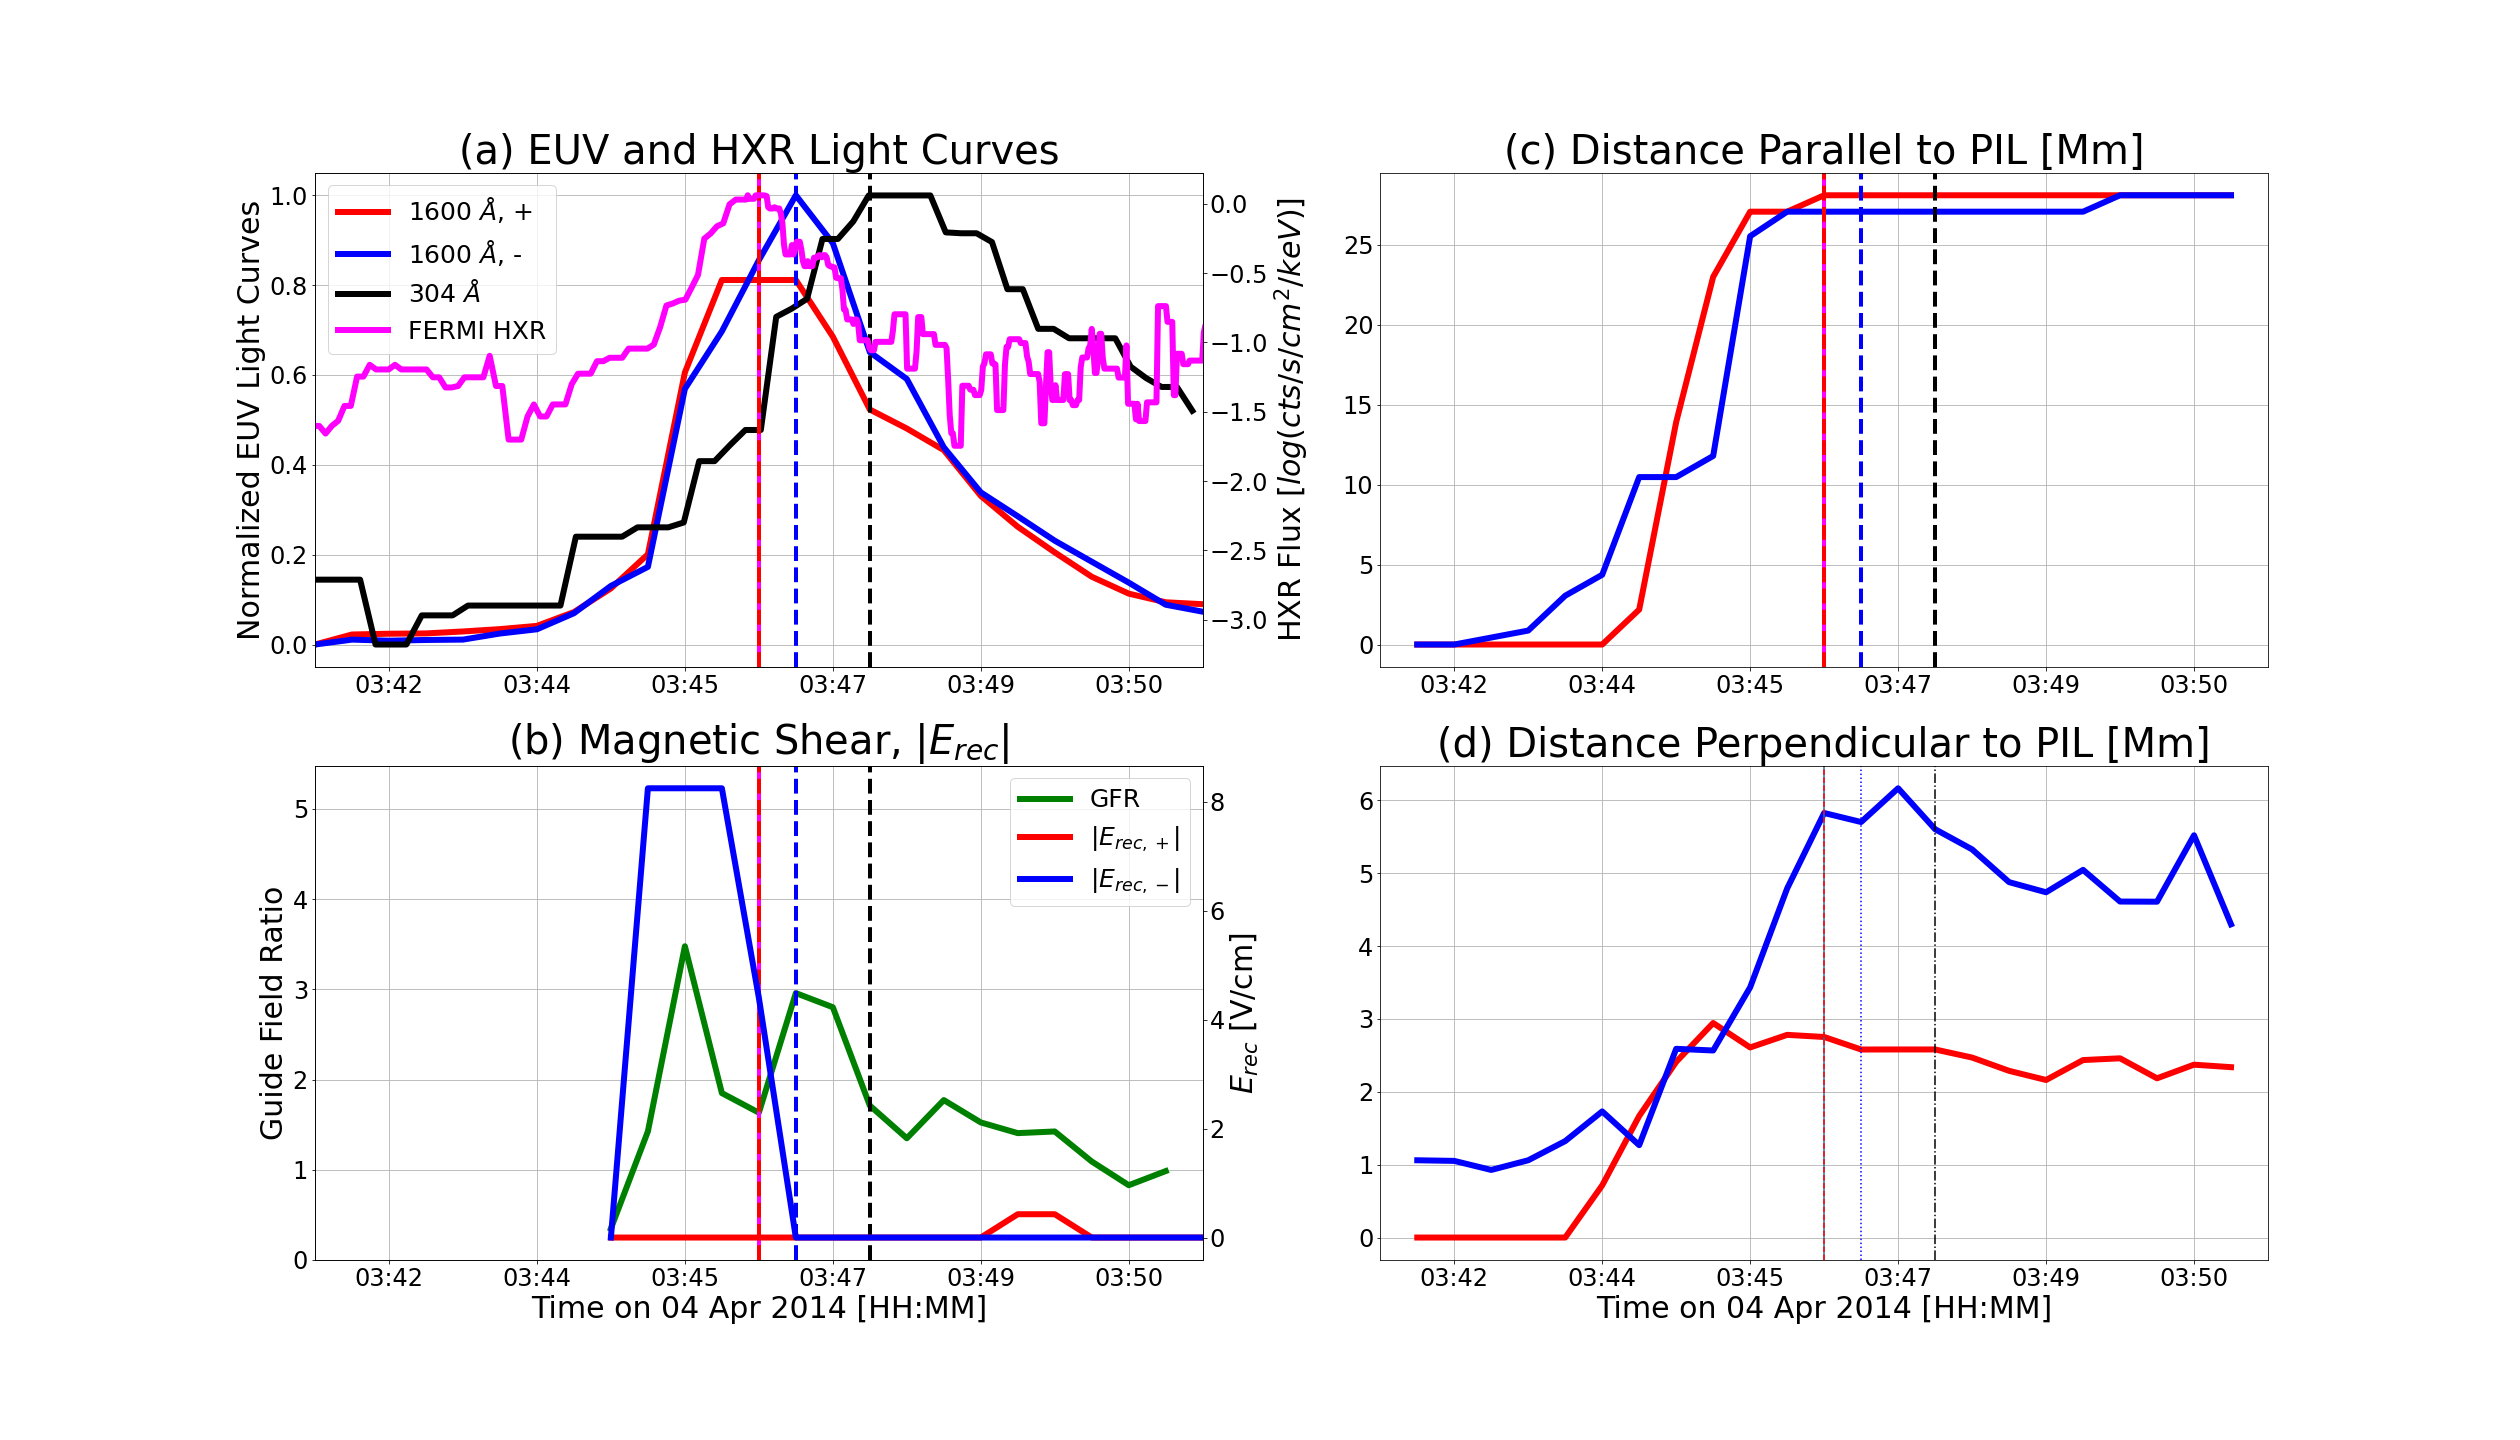
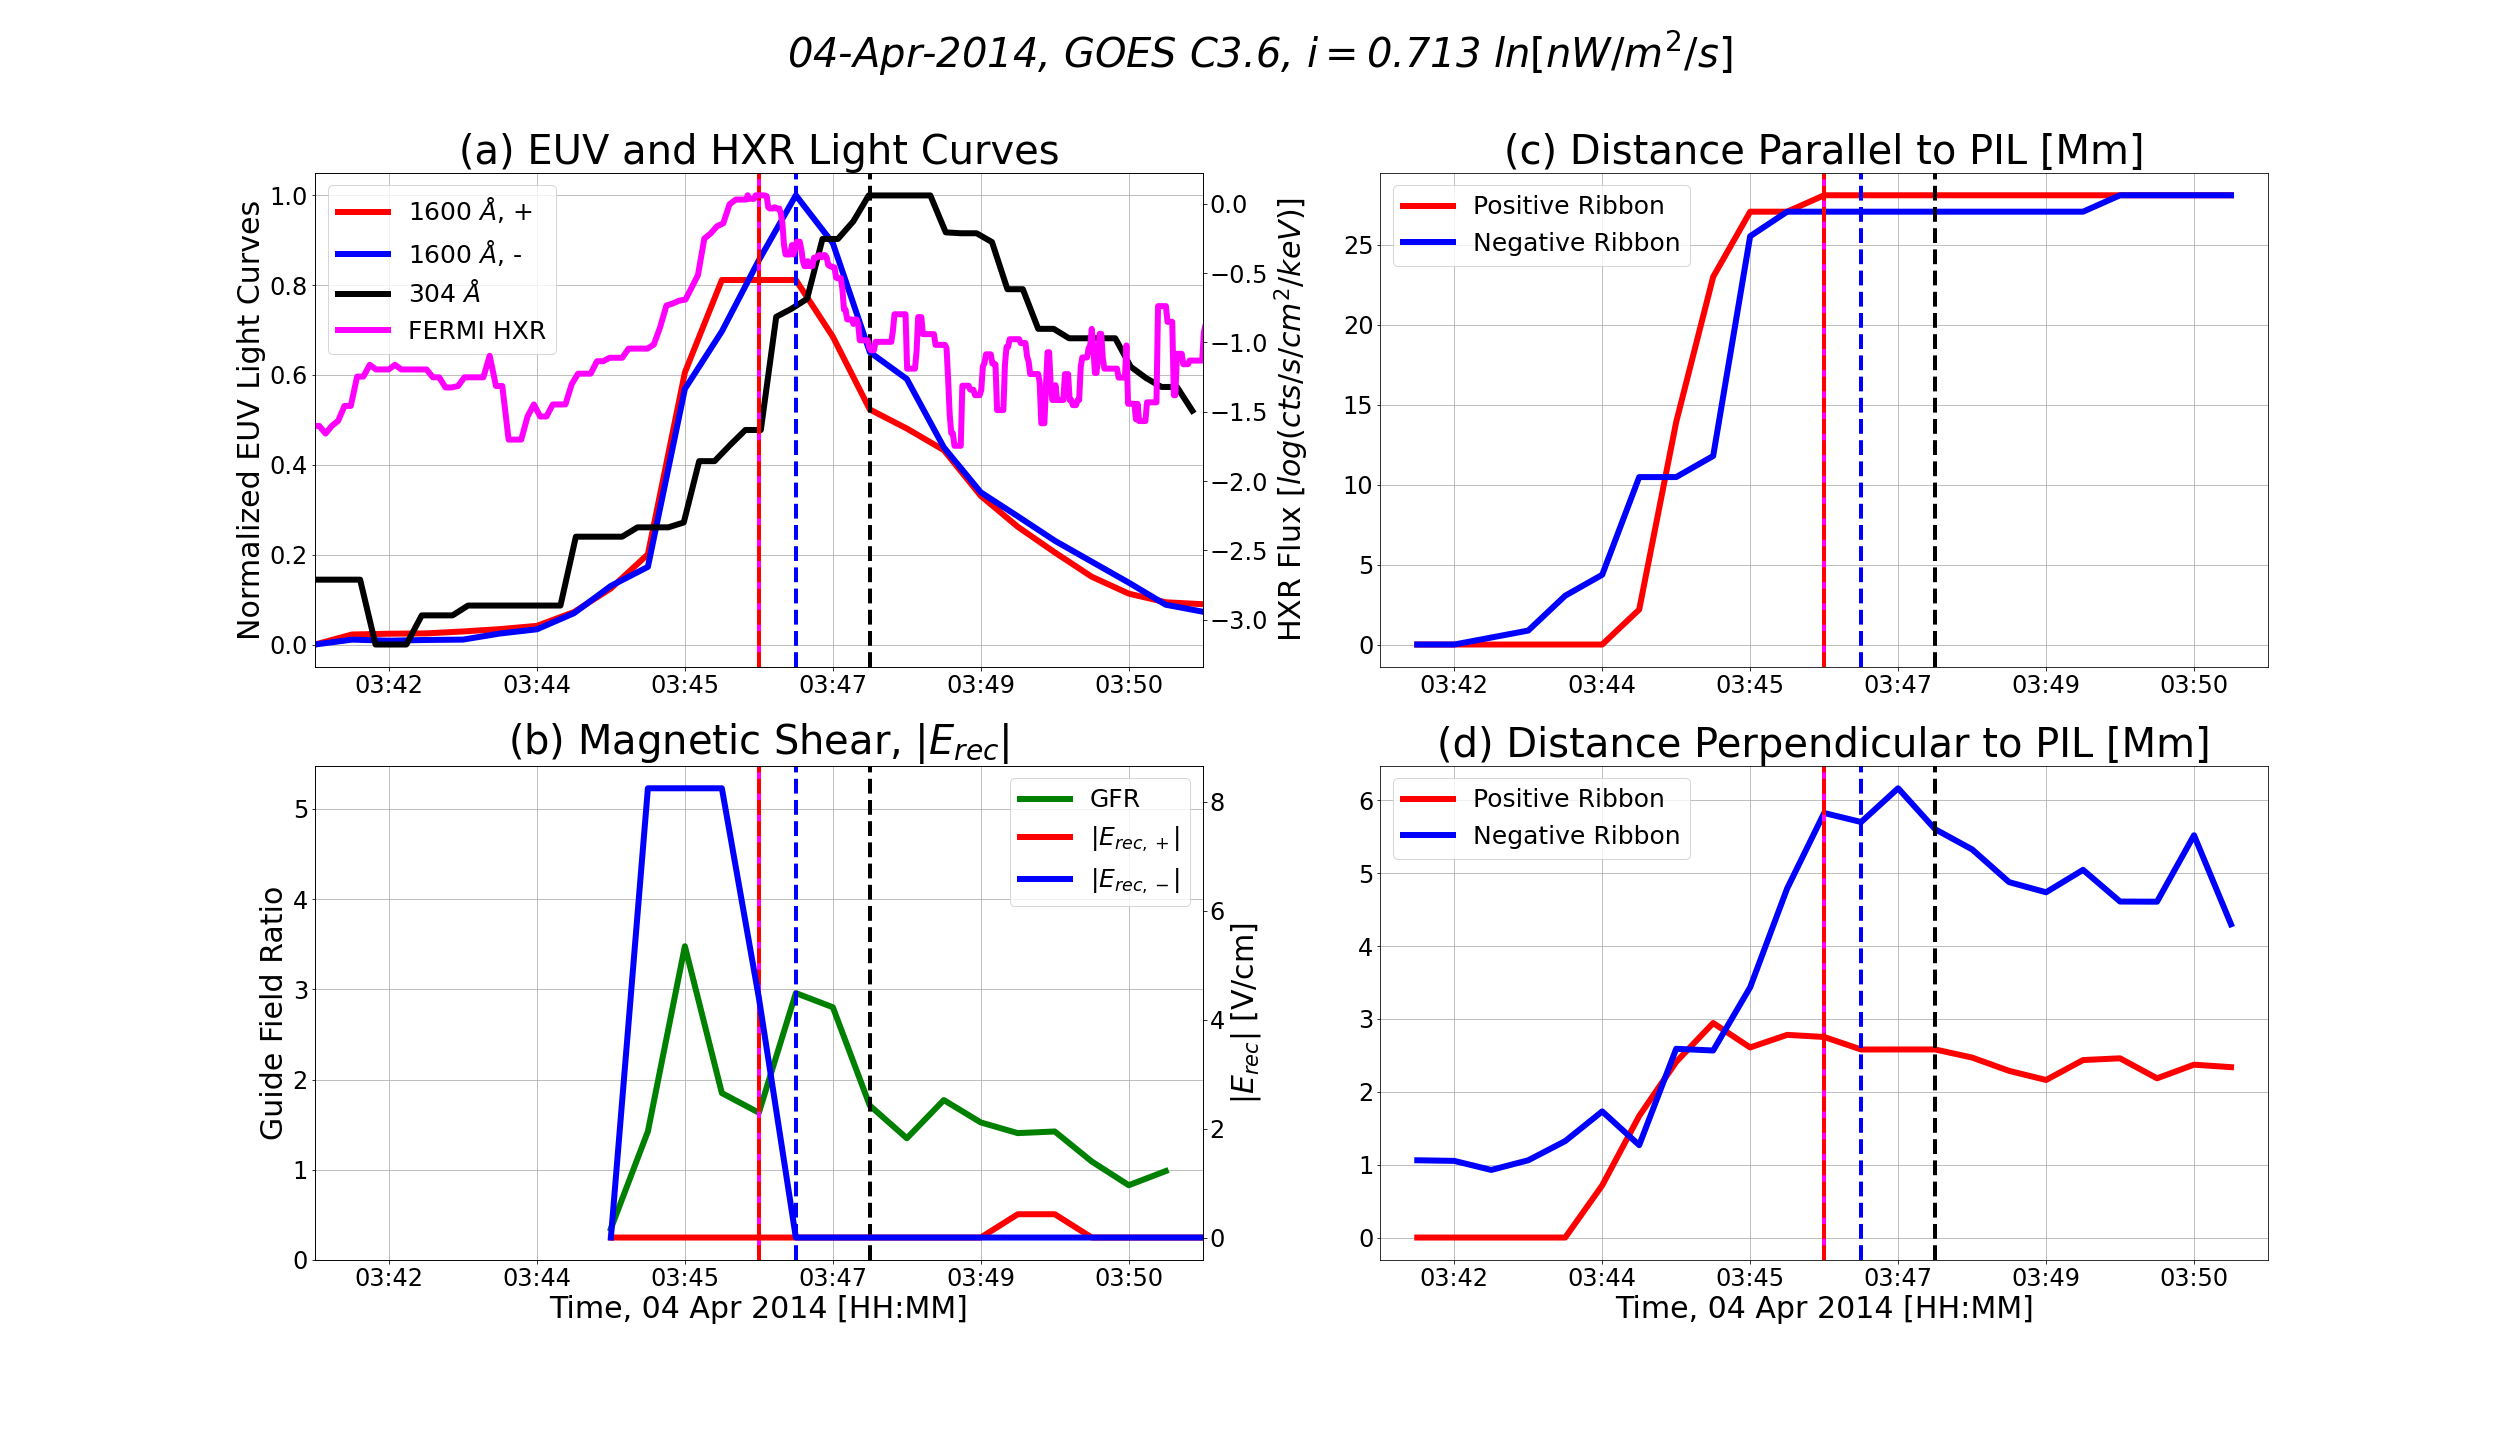
18 oct 2022 test fourpanel edit form

diff --git a/fl_funcs.py b/fl_funcs.py
@@ -4158,8 +4158,9 @@ def plt_fourpanel(times, right_gfr, left_gfr, flnum, dt1600, time304,
                   sepperiod_start_neg, sepperiod_end_neg, exp_ind,
                   s304, e304, pos1600, neg1600, dn1600, indstrt_elon,
                   indstrt_sep, fermitimes, raw_hxr_sum, cspec_hxr_sum,
-                  gfr_trans, E_pos, E_neg, time_E, day, mo, year,low_hxr=0,
-                  high_hxr=800, period_flag=0, flag=0, tick_space=0):
+                  gfr_trans, E_pos, E_neg, time_E, day, mo, year, xcl, xclnum,
+                  imp, low_hxr=0, high_hxr=800, period_flag=0, flag=0,
+                  tick_space=0):
     """
     Four-panel plot to compare HXR/1600 Angstrom/304 Angstrom (panel 1),
     ribbon separation (panel 2), ribbon elongation (panel 3), guide field ratio
@@ -4371,7 +4372,7 @@ def plt_fourpanel(times, right_gfr, left_gfr, flnum, dt1600, time304,
 
     ax2_0.set_xlim([dt1600[0], dt1600[-1]])
 
-    ax2_0.set_ylabel(r'$E_{rec}$ [V/cm]',
+    ax2_0.set_ylabel(r'$|E_{rec}|$ [V/cm]',
                      fontsize=30)
 
     font = font_manager.FontProperties(style='normal', size=20)
@@ -4393,11 +4394,11 @@ def plt_fourpanel(times, right_gfr, left_gfr, flnum, dt1600, time304,
             ax2.axvline(dt1600[l], c='red')
             ax2.axvspan(dt1600[k], dt1600[l], alpha=0.5, color='cyan')
 
-    ax3.plot(dt1600[indstrt_elon:-1], lens_pos_Mm[indstrt_elon:-1],
-             c='red', linewidth=6)
+    lns1 = ax3.plot(dt1600[indstrt_elon:-1], lens_pos_Mm[indstrt_elon:-1],
+             c='red', linewidth=6, label = 'Positive Ribbon')
 
-    ax3.plot(dt1600[indstrt_elon:-1], lens_neg_Mm[indstrt_elon:-1],
-             c='blue',linewidth=6)
+    lns2 = ax3.plot(dt1600[indstrt_elon:-1], lens_neg_Mm[indstrt_elon:-1],
+             c='blue',linewidth=6, label = 'Negative Ribbon')
 
     ax3.grid()
     #ax3.set_ylabel(
@@ -4412,12 +4413,16 @@ def plt_fourpanel(times, right_gfr, left_gfr, flnum, dt1600, time304,
     ax3.axvline(dt1600[max304], color='black',linestyle='dashed',linewidth=4)
     ax3.axvline(dt1600[max1600pos], color='red',linestyle='dashed',linewidth=4)
     ax3.axvline(dt1600[max1600neg], color='blue', linestyle='dashed',linewidth=4)
+    lns = lns1+lns2
+    labs = [k.get_label() for k in lns]
+    font = font_manager.FontProperties(style='normal', size=25)
+    ax3.legend(lns, labs, prop=font, fontsize=25)
     ax3.axes.xaxis.set_ticklabels([])
-    ax4.plot(dt1600[indstrt_sep:-1], distpos_Mm[indstrt_sep:-1], c='red',
-             markersize=6, linewidth=6)
+    lns1 = ax4.plot(dt1600[indstrt_sep:-1], distpos_Mm[indstrt_sep:-1], c='red',
+             markersize=6, linewidth=6, label = 'Positive Ribbon')
 
-    ax4.plot(dt1600[indstrt_sep:-1], distneg_Mm[indstrt_sep:-1],
-             c='blue', linewidth=6)
+    lns2 = ax4.plot(dt1600[indstrt_sep:-1], distneg_Mm[indstrt_sep:-1],
+             c='blue', linewidth=6, label = 'Negative Ribbon')
 
     #ax4.set_ylabel(
     #    'Distance Perpendicular to PIL [Mm]', fontsize=30)
@@ -4426,18 +4431,18 @@ def plt_fourpanel(times, right_gfr, left_gfr, flnum, dt1600, time304,
 
     ax4.set_xlim([dt1600[0], dt1600[-1]])
 
-    ax4.axvline(dt1600[hxrmax], label='Max. HXR')
-    ax4.axvline(dt1600[max304], color='black',
-                label=r'Max. 304 $\AA$', linestyle='dashdot')
-    ax4.axvline(dt1600[max1600pos], color='red',
-                label=r'Max. pos. 1600 $\AA$', linestyle='dashed')
-    ax4.axvline(dt1600[max1600neg], color='blue',
-                label=r'Max. neg. 1600 $\AA$', linestyle='dotted')
+    ax4.axvline(dt1600[hxrmax],color='magenta',linewidth=4)
+    ax4.axvline(dt1600[max304], color='black',linestyle='dashed',linewidth=4)
+    ax4.axvline(dt1600[max1600pos], color='red',linestyle='dashed',linewidth=4)
+    ax4.axvline(dt1600[max1600neg], color='blue', linestyle='dashed',linewidth=4)
     ax4.grid()
-    ax4.set_xlabel('Time on '+day+' '+mo+' '+year+' [HH:MM]',
+    ax4.set_xlabel('Time, '+day+' '+mo+' '+year+' [HH:MM]',
                    fontsize=30)
-    
-    ax2.set_xlabel('Time on '+day+' '+mo+' '+year+' [HH:MM]',
+    lns = lns1+lns2
+    labs = [k.get_label() for k in lns]
+    font = font_manager.FontProperties(style='normal', size=25)
+    ax4.legend(lns, labs, prop=font, fontsize=25)
+    ax2.set_xlabel('Time, '+day+' '+mo+' '+year+' [HH:MM]',
                    fontsize=30)
 
     if tick_space > 0:
@@ -4466,7 +4471,7 @@ def plt_fourpanel(times, right_gfr, left_gfr, flnum, dt1600, time304,
     ax1_0.yaxis.set_tick_params(labelsize=24)
     ax2_0.xaxis.set_tick_params(labelsize=24)
     ax2_0.yaxis.set_tick_params(labelsize=24)
-    
+    fig.suptitle(day+'-'+mo+'-'+year+', GOES '+xcl+str(xclnum)+r', i$ = $'+str(imp)+r' $ln[nW/m^2/s]$',fontsize=40,fontstyle='italic')
    
 
     if period_flag == 1:

diff --git a/high1_process.py b/high1_process.py
@@ -24,6 +24,7 @@ daystr = '04'
 mostr = 'apr'
 mostrcap = 'Apr'
 yearstr = '2014'
+imp = 0.713
 
 bestflarefile = "/Users/owner/Desktop/CU_Research/MAT_SOURCE/bestperf_more.mat"
 
@@ -322,8 +323,8 @@ fl_funcs.plt_fourpanel(times, gfr, gfr, flnum, dt1600, time304,
                        s304, e304, pos1600, neg1600, dn1600, indstrt_elon,
                        indstrt_sep, fermitimes, raw_hxr_sum, cspec_hxr_sum,
                        gfr_trans, E_pos, E_neg, time_E, daystr,mostrcap,yearstr,
-                       low_hxr=3500, high_hxr=4500,  period_flag=0,
-                       tick_space=4)
+                       xcl,xclnum,imp, low_hxr=3500, high_hxr=4500,
+                       period_flag=0, tick_space=4)
 
 file = 'high1shear'
 
